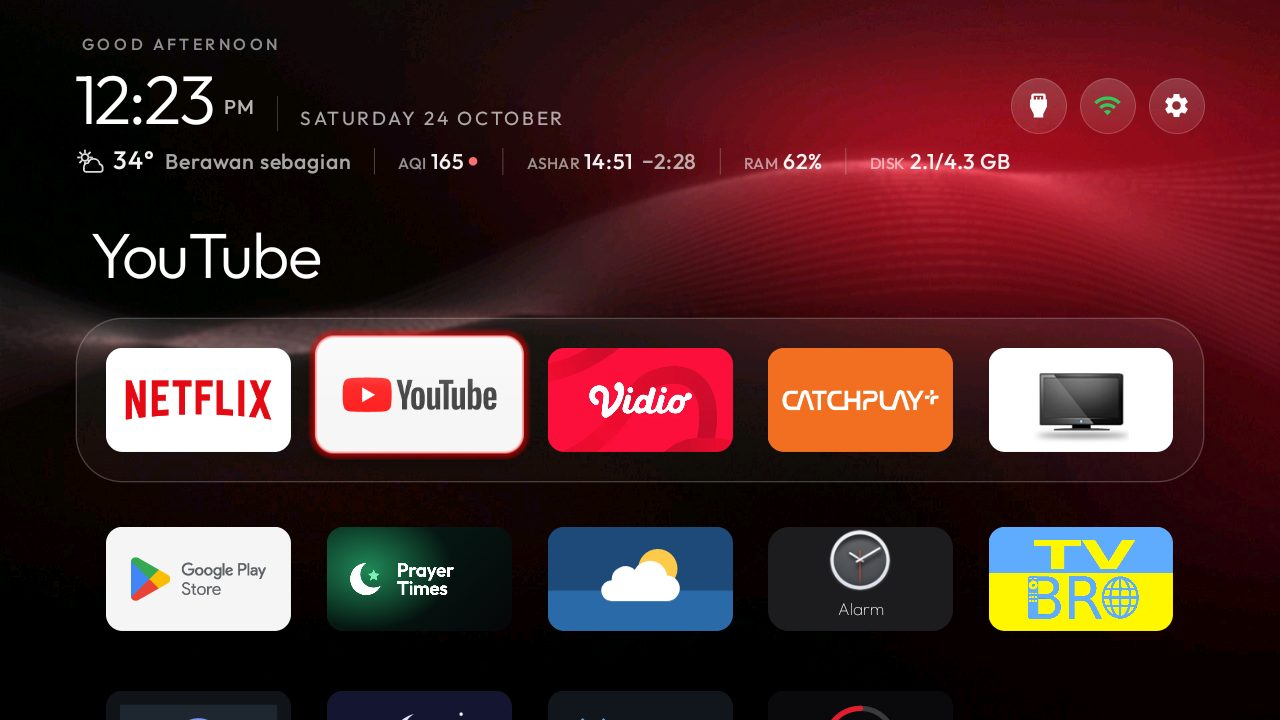
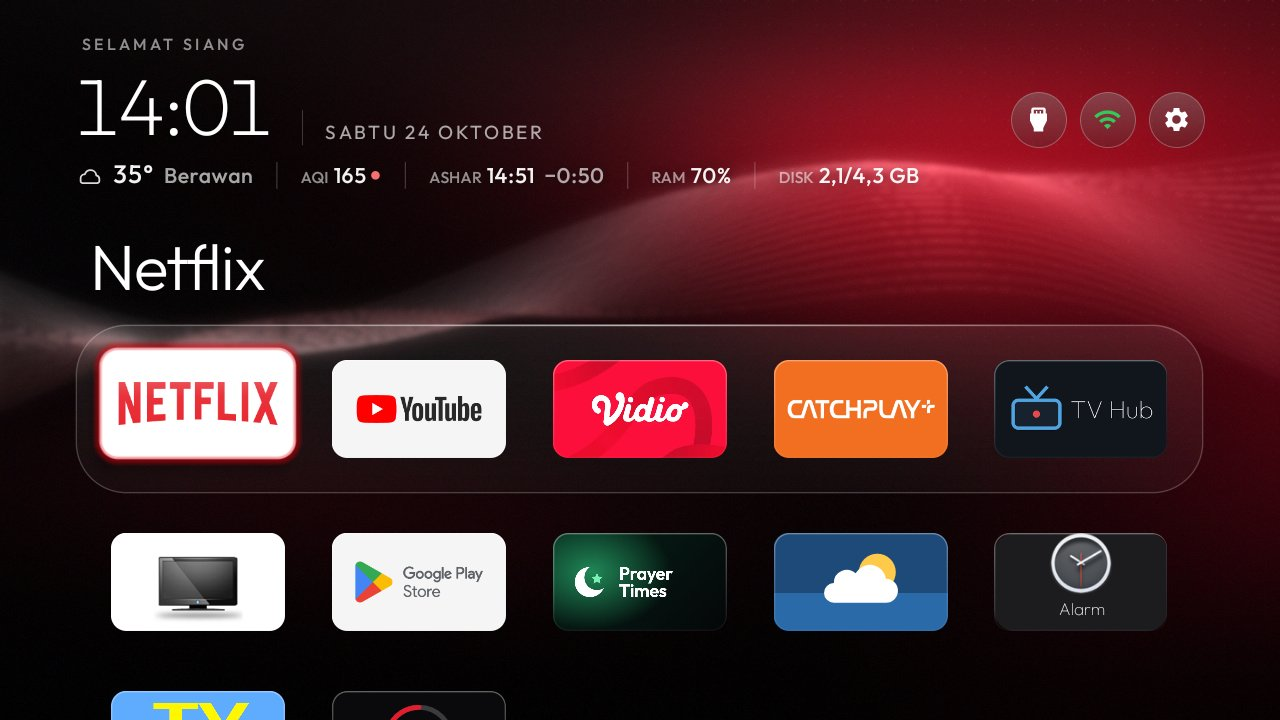
Launcher: glass rims on tiles, a sheen along the dock, crisper focus ring, layered pills and a thinner, larger clock
TileRim draws a hairline over each banner that is bright at the top and fades down; the dock band gets a light catching its top edge; the focus rim is 2dp; header pills get a dark tint under the frost so they read over a bright wallpaper; the clock moves to Outfit ExtraLight 60sp with tabular figures and a soft shadow, and the glance line uses sub-pixel text. The crimson wallpaper is rendered at the TV's own 1280x720, JPEG 95 4:4:4, shown in 32-bit colour.

diff --git a/my-tv/make_wallpaper.py b/my-tv/make_wallpaper.py
@@ -6,7 +6,8 @@ import sys
 import numpy as np
 from PIL import Image, ImageDraw, ImageFilter
 
-W, H = 1920, 1080
+# The TV draws at 1280x720 (its only display mode): rendering at that size avoids any rescale blur.
+W, H = 1280, 720
 out = sys.argv[1]
 rng = np.random.default_rng(int(sys.argv[2]) if len(sys.argv) > 2 else 7)
 PALETTE = sys.argv[3] if len(sys.argv) > 3 else "redblack"
@@ -35,7 +36,7 @@ else:
     img += field(0.30, 0.62, 0.35, 0.16, (219, 39, 119), 0.30)
     img += field(0.10, 0.05, 0.25, 0.18, (37, 99, 235), 0.30)
 
-base = Image.fromarray(np.clip(img, 0, 255).astype(np.uint8)).filter(ImageFilter.GaussianBlur(60))
+base = Image.fromarray(np.clip(img, 0, 255).astype(np.uint8)).filter(ImageFilter.GaussianBlur(60 * W / 1920))
 
 # Ribbons: a family of thin sine curves sweeping across the upper middle, drawn bright, then a wide glow copy.
 lines = Image.new("RGB", (W, H))
@@ -46,17 +47,17 @@ for i in range(26):
     pts = []
     for px in range(-40, W + 41, 8):
         u = px / W
-        yy = (0.30 + 0.20 * t) * H + 120 * np.sin(u * 4.2 + phase + t * 1.6) + 50 * np.sin(u * 9.0 - t * 3.0)
+        yy = (0.30 + 0.20 * t) * H + 120 * H / 1080 * np.sin(u * 4.2 + phase + t * 1.6) + 50 * H / 1080 * np.sin(u * 9.0 - t * 3.0)
         pts.append((px, yy))
     c = (235, int(225 - 90 * t), int(228 - 90 * t)) if RED else (int(90 + 110 * (1 - t)), int(100 + 70 * t), 235)
     draw.line(pts, fill=tuple(int(v * (0.18 + 0.22 * np.sin(t * 3.14))) for v in c), width=2)
-glow = lines.filter(ImageFilter.GaussianBlur(14))
-lines = lines.filter(ImageFilter.GaussianBlur(2.6))
+glow = lines.filter(ImageFilter.GaussianBlur(14 * W / 1920))
+lines = lines.filter(ImageFilter.GaussianBlur(2.6 * W / 1920 + 0.6))
 art = np.asarray(base, np.float32) + np.asarray(lines, np.float32) * 0.8 + np.asarray(glow, np.float32) * 0.9
 
 # Faint dot grid, fading in towards the right, for a technical feel.
 grid = np.zeros((H, W), np.float32)
-grid[::36, ::36] = 1.0
+grid[::24, ::24] = 1.0
 grid = np.asarray(Image.fromarray((grid * 255).astype(np.uint8)).filter(ImageFilter.GaussianBlur(0.8)), np.float32)
 art += (grid / 255.0 * 38 * np.clip(nx * 1.4 - 0.2, 0, 1) * (1 - ny))[..., None]
 
@@ -67,5 +68,5 @@ art *= shade[..., None]
 
 # A little grain so dark gradients don't band on an 8-bit panel.
 art += rng.normal(0, 1.6, art.shape)
-Image.fromarray(np.clip(art, 0, 255).astype(np.uint8)).save(out, "JPEG", quality=86, optimize=True, progressive=True)
+Image.fromarray(np.clip(art, 0, 255).astype(np.uint8)).save(out, "JPEG", quality=95, subsampling=0, optimize=True)
 print(out, round(float(np.clip(art, 0, 255).mean()), 1))

diff --git a/launcher/app/src/main/java/com/gathin/tvhome/DockDecoration.java b/launcher/app/src/main/java/com/gathin/tvhome/DockDecoration.java
@@ -18,6 +18,9 @@ public class DockDecoration extends RecyclerView.ItemDecoration {
     private final float density;
     private final Paint band = new Paint(Paint.ANTI_ALIAS_FLAG);
     private final Paint edge = new Paint(Paint.ANTI_ALIAS_FLAG);
+    /** A brighter rim along the band's top edge only, fading out at both ends: light catching a glass edge. */
+    private final Paint sheen = new Paint(Paint.ANTI_ALIAS_FLAG);
+    private float sheenLeft = Float.NaN, sheenRight = Float.NaN;
     private final RectF rect = new RectF();
 
     /** Extra band below the tiles for their names (always_show_names), in px. */
@@ -47,6 +50,8 @@ public class DockDecoration extends RecyclerView.ItemDecoration {
         edge.setStyle(Paint.Style.STROKE);
         edge.setStrokeWidth(density);
         edge.setColor(lightGlass ? 0x38FFFFFF : translucent ? 0x26FFFFFF : 0x1FFFFFFF);
+        sheen.setStyle(Paint.Style.STROKE);
+        sheen.setStrokeWidth(1.25f * density);
     }
 
     /** Concentric corners: the band's radius is the tiles' radius plus the band's padding around them. */
@@ -128,5 +133,15 @@ public class DockDecoration extends RecyclerView.ItemDecoration {
         }
         c.drawRoundRect(rect, radius, radius, band);
         c.drawRoundRect(rect, radius, radius, edge);
+        if (rect.left != sheenLeft || rect.right != sheenRight) {
+            sheen.setShader(new LinearGradient(rect.left, 0, rect.right, 0, new int[] {0x00FFFFFF, 0x99FFFFFF, 0x00FFFFFF},
+                    null, Shader.TileMode.CLAMP));
+            sheenLeft = rect.left;
+            sheenRight = rect.right;
+        }
+        c.save();
+        c.clipRect(rect.left, rect.top - density, rect.right, rect.top + radius * 0.6f);
+        c.drawRoundRect(rect, radius, radius, sheen);
+        c.restore();
     }
 }

diff --git a/launcher/app/src/main/java/com/gathin/tvhome/TileRim.java b/launcher/app/src/main/java/com/gathin/tvhome/TileRim.java
@@ -1,0 +1,45 @@
+package com.gathin.tvhome;
+
+import android.graphics.Canvas;
+import android.graphics.ColorFilter;
+import android.graphics.LinearGradient;
+import android.graphics.Paint;
+import android.graphics.PixelFormat;
+import android.graphics.Rect;
+import android.graphics.RectF;
+import android.graphics.Shader;
+import android.graphics.drawable.Drawable;
+
+/**
+ * A tile's glass edge, drawn over the banner as its foreground: a hairline rim that is bright along the top and fades
+ * towards the bottom, like light catching the edge of a pane. Same corners as the tile's outline (AppAdapter.cornerRadius).
+ */
+final class TileRim extends Drawable {
+    private final Paint rim = new Paint(Paint.ANTI_ALIAS_FLAG);
+    private final RectF rect = new RectF();
+    private final float density;
+
+    TileRim(float density) {
+        this.density = density;
+        rim.setStyle(Paint.Style.STROKE);
+        rim.setStrokeWidth(Math.max(1f, density));
+    }
+
+    @Override
+    protected void onBoundsChange(Rect b) {
+        rim.setShader(new LinearGradient(0, b.top, 0, b.bottom, 0x5CFFFFFF, 0x0AFFFFFF, Shader.TileMode.CLAMP));
+    }
+
+    @Override
+    public void draw(Canvas c) {
+        Rect b = getBounds();
+        float half = rim.getStrokeWidth() / 2f;
+        rect.set(b.left + half, b.top + half, b.right - half, b.bottom - half);
+        float r = AppAdapter.cornerRadius(b.width(), density) - half;
+        c.drawRoundRect(rect, r, r, rim);
+    }
+
+    @Override public void setAlpha(int alpha) { rim.setAlpha(alpha); }
+    @Override public void setColorFilter(ColorFilter cf) { rim.setColorFilter(cf); }
+    @Override public int getOpacity() { return PixelFormat.TRANSLUCENT; }
+}

diff --git a/launcher/app/src/main/java/com/gathin/tvhome/MainActivity.java b/launcher/app/src/main/java/com/gathin/tvhome/MainActivity.java
@@ -447,6 +447,8 @@ public class MainActivity extends Activity implements AppAdapter.TileListener {
         if (getResources().getBoolean(R.bool.glance_line)) {
             glance = new Glance(this);
             stats.setTextSize(16);
+            // Sub-pixel glyph positions: the thin labels and figures stay even at 720p instead of snapping to pixels.
+            stats.setPaintFlags(stats.getPaintFlags() | android.graphics.Paint.SUBPIXEL_TEXT_FLAG);
         }
         showStats = cfg.showStats || glance != null;
         shamsi = cfg.shamsiDate;

diff --git a/launcher/app/src/main/java/com/gathin/tvhome/AppAdapter.java b/launcher/app/src/main/java/com/gathin/tvhome/AppAdapter.java
@@ -712,6 +712,8 @@ public class AppAdapter extends RecyclerView.Adapter<RecyclerView.ViewHolder> {
                 }
             });
             card.setClipToOutline(true);
+            // Glass edge over the banner: a hairline that catches the light along the top.
+            card.setForeground(new TileRim(density));
 
             card.setOnKeyListener((view, keyCode, event) -> {
                 if (event.getAction() != KeyEvent.ACTION_DOWN) return false;

diff --git a/launcher/app/src/main/java/com/gathin/tvhome/GlassView.java b/launcher/app/src/main/java/com/gathin/tvhome/GlassView.java
@@ -32,7 +32,7 @@ public class GlassView extends View {
         density = getResources().getDisplayMetrics().density;
         radius = 20f * density;
         rim.setStyle(Paint.Style.STROKE);
-        rim.setStrokeWidth(1.5f * density);
+        rim.setStrokeWidth(2f * density);
         rim.setColor(0xCCFFFFFF);
         glow.setStyle(Paint.Style.STROKE);
         // Cache the slab as a texture. The spring only changes translation, so the GPU can
